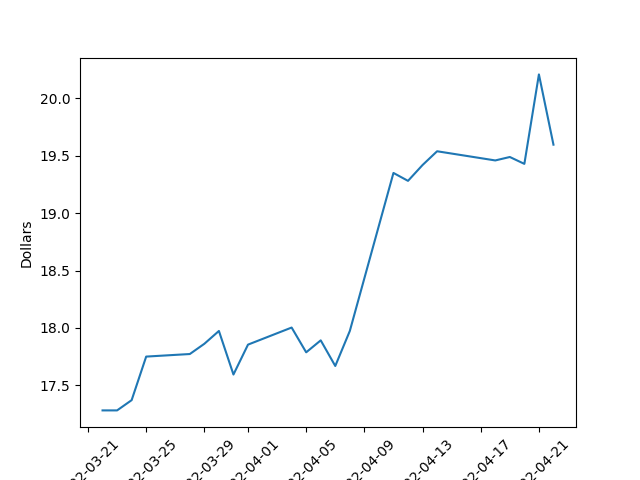
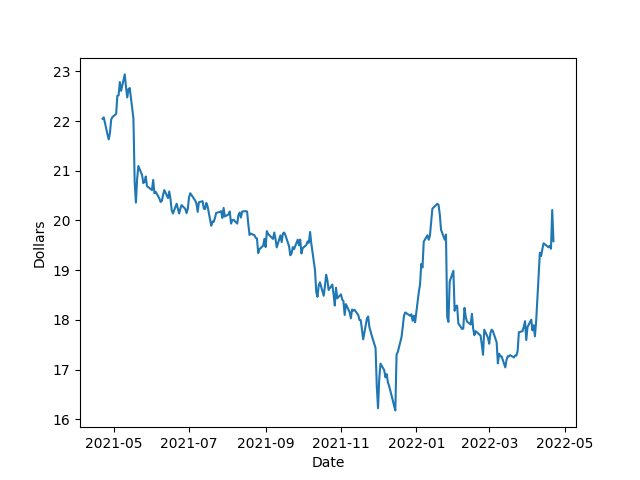
REALLY updated chart

diff --git a/FrontEnd/BAWS/getStockInfo.py b/FrontEnd/BAWS/getStockInfo.py
@@ -58,11 +58,10 @@ def generate_graph(tick: str):
     if(tick in tickers_list):
         print("showing tick")
         print(df[tick])
-        sub = df[tick] # grabs the sub item
+        sub = yf.Ticker(tick).history(period = '1y') # grabs the sub item
         plt.clf()
         plt.plot(sub.index, sub['Close'])
         plt.ylabel('Dollars')
-        plt.xticks(rotation=45)
         plt.xlabel('Date')
         plt.title = f'{tick} time X value' # names the image
         # TODO:decide where it will save
